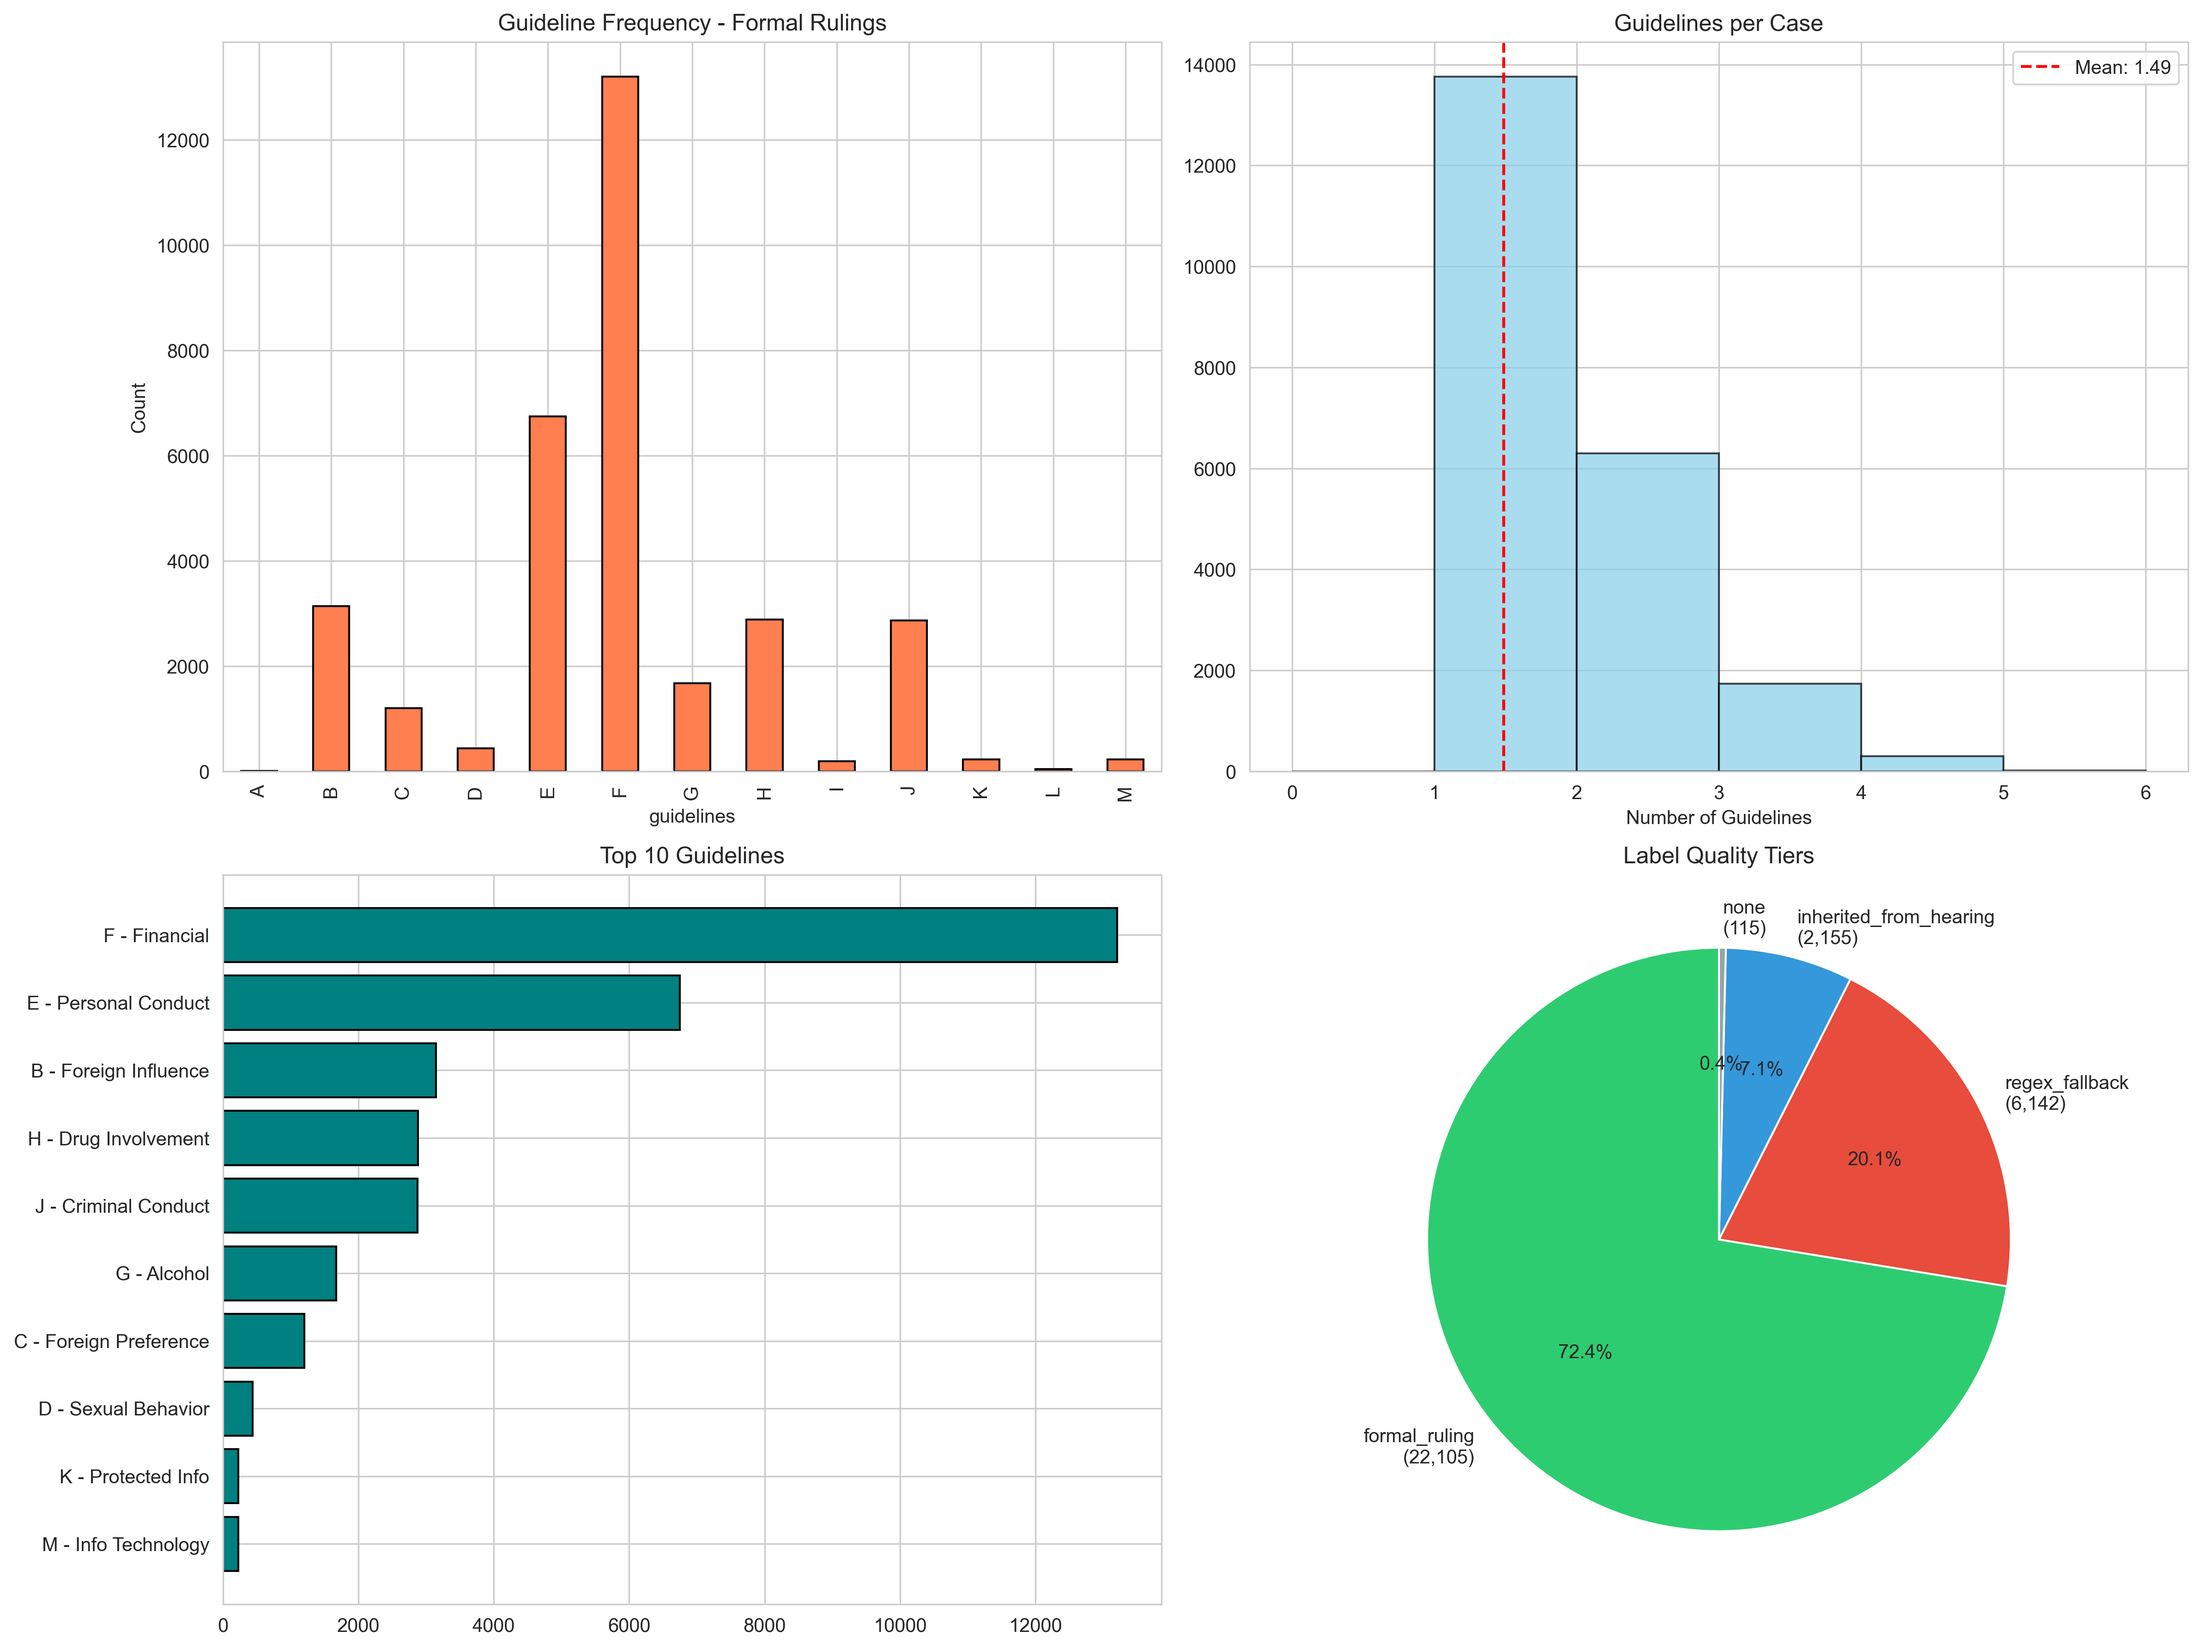
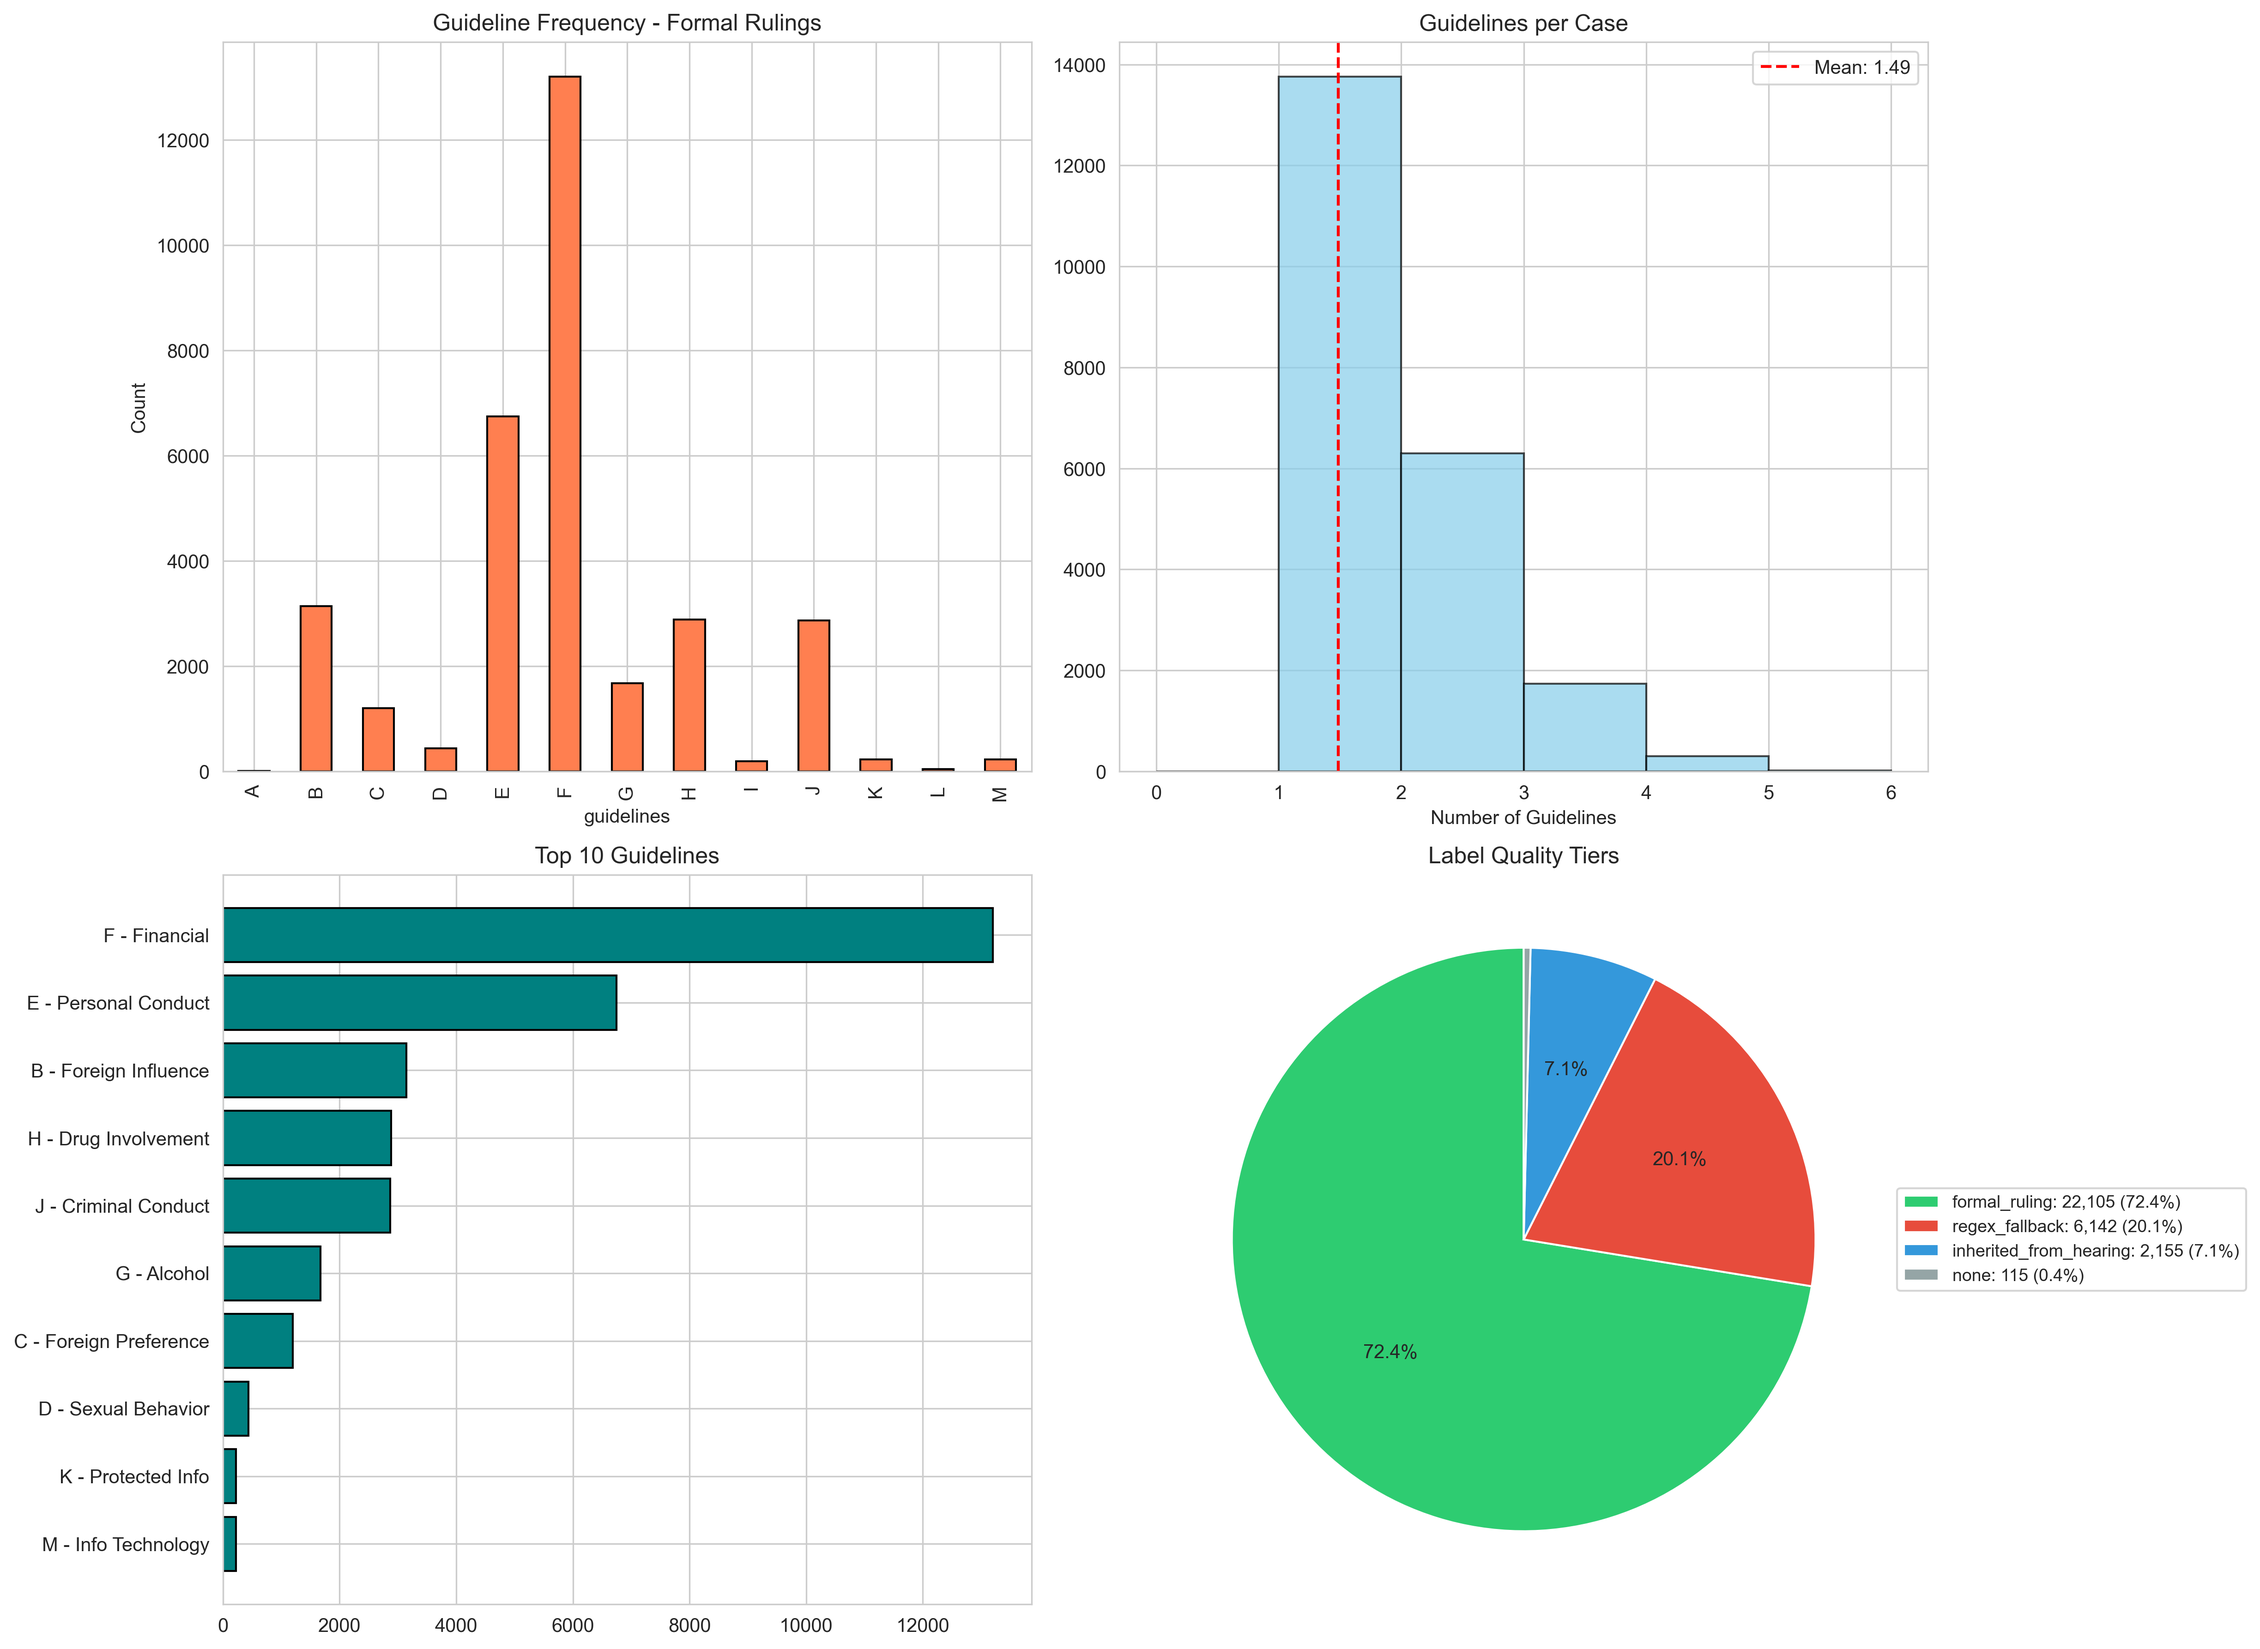
Improve graphs and design

diff --git a/notebooks/03_exploratory_data_analysis.py b/notebooks/03_exploratory_data_analysis.py
@@ -58,7 +58,7 @@ def analyzeOutcomes(df):
     print(crosstab.round(2).to_string())
     
     #Charts
-    fig, axes = plt.subplots(1, 2, figsize=(14, 5))
+    fig, axes = plt.subplots(1, 2, figsize=(16, 6))
     
     counts.plot(kind='bar', ax=axes[0], color='steelblue', edgecolor='black')
     axes[0].set_title('Outcome Distribution')
@@ -68,8 +68,16 @@ def analyzeOutcomes(df):
     for i, v in enumerate(counts):
         axes[0].text(i, v + 500, f'{v:,}', ha='center')
     
-    axes[1].pie(counts, labels=counts.index, autopct='%1.1f%%', 
-                startangle=90, colors=sns.color_palette("Set2"))
+    #Pie with legend - only show % for slices > 1%
+    def showPercent(pct):
+        return f'{pct:.1f}%' if pct > 1 else ''
+    
+    colors = sns.color_palette("Set2", len(counts))
+    wedges, texts, autotexts = axes[1].pie(counts, autopct=showPercent, 
+                                             startangle=140, colors=colors,
+                                             textprops={'fontsize': 11})
+    axes[1].legend(wedges, [f'{k}: {v:,} ({v/total*100:.1f}%)' for k, v in counts.items()],
+                   loc="center left", bbox_to_anchor=(0.95, 0.5), fontsize=10)
     axes[1].set_title('Outcome Proportions')
     
     plt.tight_layout()
@@ -150,12 +158,23 @@ def analyzeGuidelines(df):
     axes[1, 0].set_title('Top 10 Guidelines')
     axes[1, 0].invert_yaxis()
     
+    #Fix pie chart with legend to avoid overlap
+    def showPct(pct):
+        return f'{pct:.1f}%' if pct > 5 else ''
+    
     labelColors = {'formal_ruling': '#2ecc71', 'inherited_from_hearing': '#3498db', 
                    'regex_fallback': '#e74c3c', 'none': '#95a5a6'}
     colors = [labelColors.get(x, '#7f8c8d') for x in labelSrc.index]
-    axes[1, 1].pie(labelSrc.values, 
-                   labels=[f"{x}\n({v:,})" for x, v in zip(labelSrc.index, labelSrc.values)], 
-                   autopct='%1.1f%%', startangle=90, colors=colors)
+    wedges, texts, autotexts = axes[1, 1].pie(labelSrc.values, autopct=showPct,
+                                               startangle=90, colors=colors,
+                                               textprops={'fontsize': 10})
+    
+    #Create cleaner legend with counts and percentages
+    totalCases = labelSrc.sum()
+    legendLabels = [f'{src}: {cnt:,} ({cnt/totalCases*100:.1f}%)' 
+                    for src, cnt in labelSrc.items()]
+    axes[1, 1].legend(wedges, legendLabels, loc="center left", 
+                      bbox_to_anchor=(1, 0.5), fontsize=9)
     axes[1, 1].set_title('Label Quality Tiers')
     
     plt.tight_layout()
